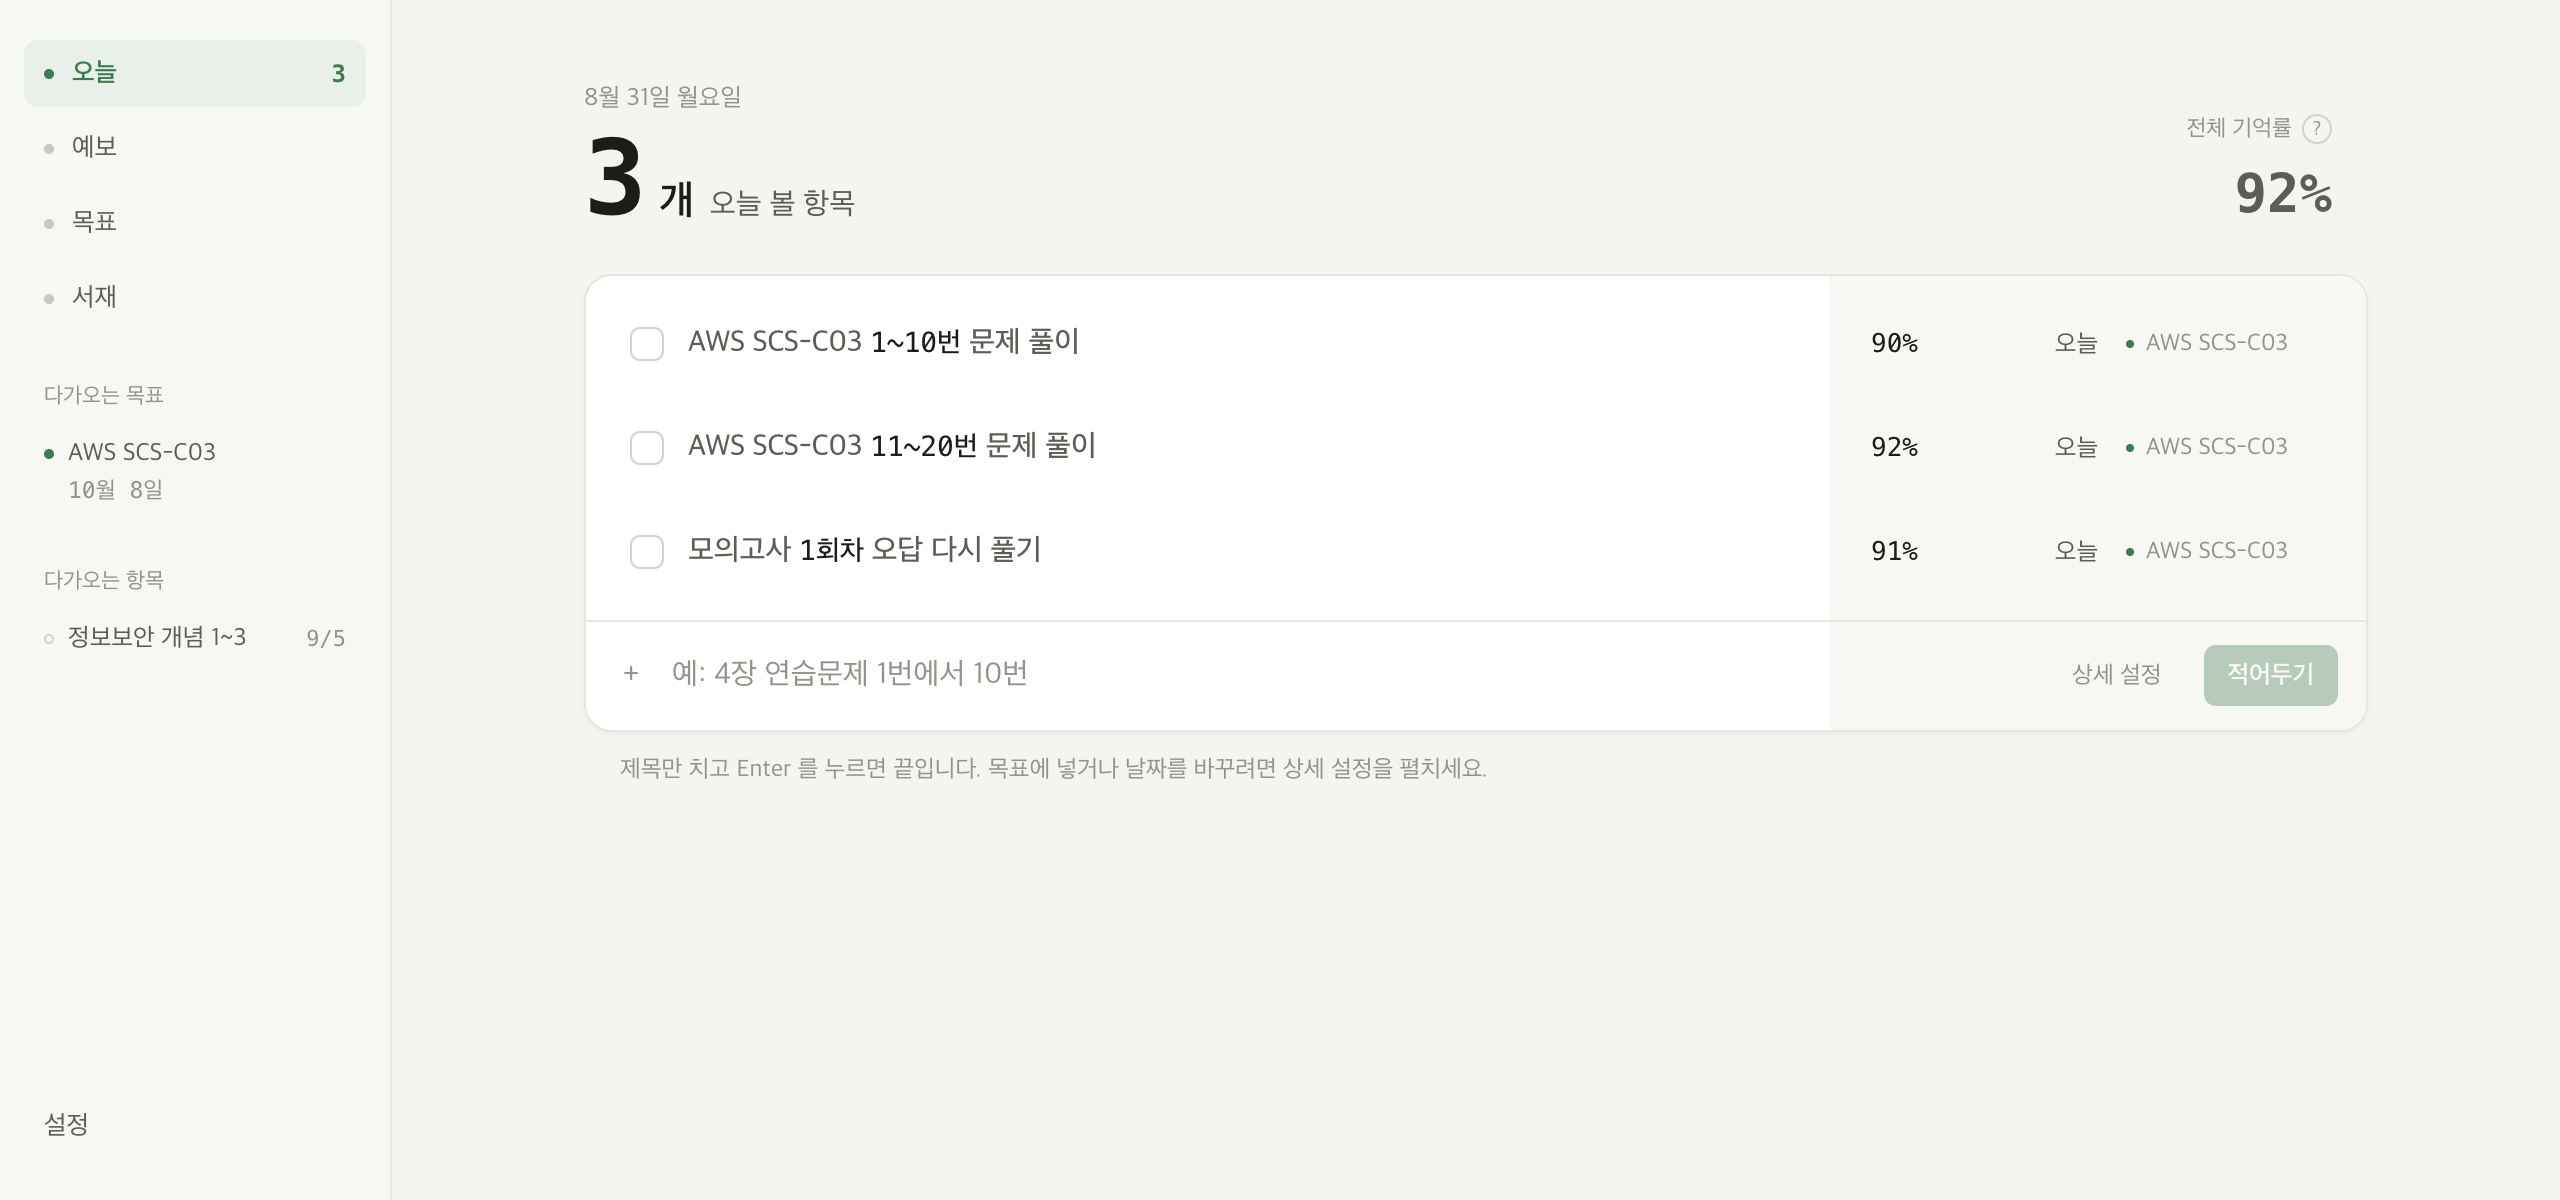
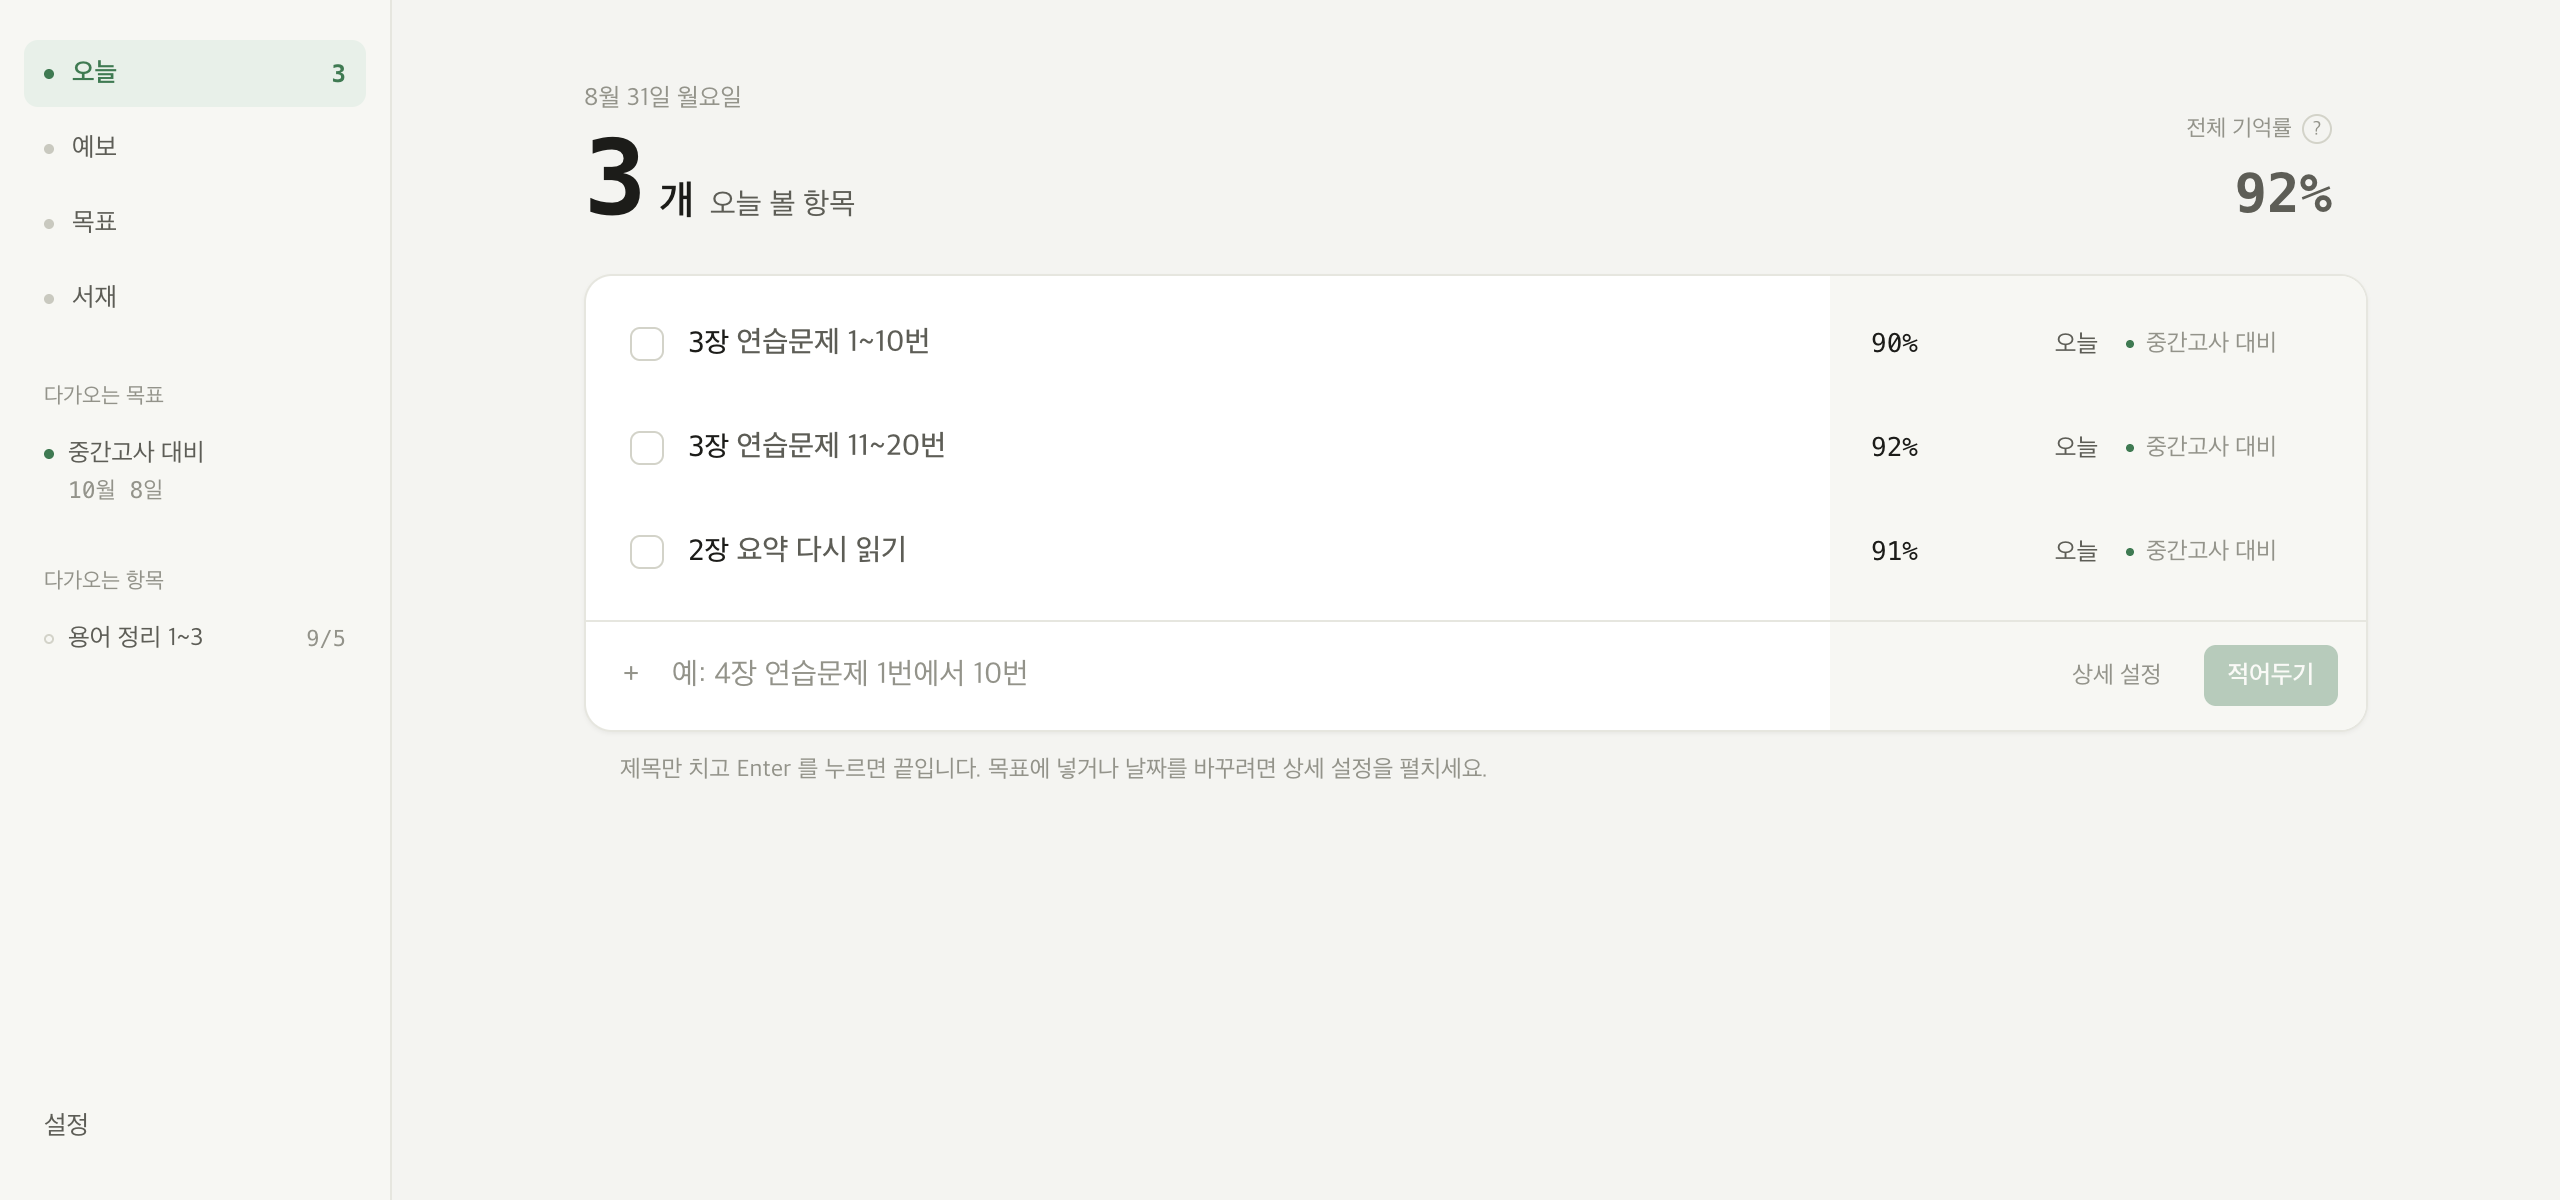
docs: 사진과 시험 씨앗에서 특정 자격증 이름을 뺀다
공개 저장소라 실제로 무엇을 공부하는지가 드러날 자리를 남기지 않는다.
시험 씨앗의 목표 이름은 '시험 준비' 로, 항목 제목은 앞의 자격증 이름을 떼고
'1~10번 문제 풀이' 만 남겼다.

사진은 곡선을 맨 앞에 두고 오늘 화면을 그 뒤로 옮겼다. 무엇을 하는 앱인지
설명하는 것은 곡선 쪽이다. 예보 화면을 하나 더해서, 목표한 날마다 세로선이
그어지고 그 뒤로는 안 그리는 것을 볼 수 있게 했다.

diff --git a/tests/scenarios/today-add.test.tsx b/tests/scenarios/today-add.test.tsx
@@ -31,11 +31,11 @@ describe('오늘 화면: 항목 적기', () => {
     await setupApp(TODAY)
     const { user } = render(<TodayScreen onOpenItem={() => {}} />)
     const input = screen.getByLabelText('새 항목 제목')
-    await user.type(input, 'AWS SCS-C03 1~10번 문제 풀이{Enter}')
+    await user.type(input, '1~10번 문제 풀이{Enter}')
 
     const items = usePlanner.getState().items
     expect(items).toHaveLength(1)
-    expect(items[0].title).toBe('AWS SCS-C03 1~10번 문제 풀이')
+    expect(items[0].title).toBe('1~10번 문제 풀이')
     expect(items[0].first_studied_at).toBe(TODAY)
     expect(items[0].due).toBe('2026-10-03')
     expect((input as HTMLInputElement).value).toBe('')
@@ -60,7 +60,7 @@ describe('오늘 화면: 항목 적기', () => {
   })
 
   it('S-004 상세 설정을 펼치고 접는다', async () => {
-    await setupApp(TODAY, { goals: [aGoal({ id: 'g1', name: 'AWS SCS-C03' })] })
+    await setupApp(TODAY, { goals: [aGoal({ id: 'g1', name: '시험 준비' })] })
     const { user } = render(<TodayScreen onOpenItem={() => {}} />)
     expect(screen.queryByText('공부한 날')).toBeNull()
 
@@ -140,11 +140,11 @@ describe('오늘 화면: 항목 적기', () => {
   })
 
   it('S-009 소속 목표를 골라 적는다', async () => {
-    await setupApp(TODAY, { goals: [aGoal({ id: 'g1', name: 'AWS SCS-C03' })] })
+    await setupApp(TODAY, { goals: [aGoal({ id: 'g1', name: '시험 준비' })] })
     const { user } = render(<TodayScreen onOpenItem={() => {}} />)
     await user.type(screen.getByLabelText('새 항목 제목'), '목표에 넣기')
     await openDetail(user)
-    await pickSelect(user, '소속 목표', 'AWS SCS-C03')
+    await pickSelect(user, '소속 목표', '시험 준비')
     await user.click(screen.getByRole('button', { name: /적어두기/ }))
 
     expect(usePlanner.getState().items[0].goal_id).toBe('g1')
@@ -157,7 +157,7 @@ describe('오늘 화면: 항목 적기', () => {
   })
 
   it('S-010 소속 목표를 없음으로 둔다', async () => {
-    await setupApp(TODAY, { goals: [aGoal({ id: 'g1', name: 'AWS SCS-C03' })] })
+    await setupApp(TODAY, { goals: [aGoal({ id: 'g1', name: '시험 준비' })] })
     const { user } = render(<TodayScreen onOpenItem={() => {}} />)
     await user.type(screen.getByLabelText('새 항목 제목'), '목표 없이')
     await openDetail(user)

diff --git a/tests/scenarios/library.test.tsx b/tests/scenarios/library.test.tsx
@@ -11,7 +11,7 @@ afterEach(teardownApp)
 
 function mixed() {
   return {
-    goals: [aGoal({ id: 'g1', name: 'AWS SCS-C03' })],
+    goals: [aGoal({ id: 'g1', name: '시험 준비' })],
     items: [
       anItem({
         id: 'a',
@@ -47,7 +47,7 @@ describe('서재', () => {
     render(<LibraryScreen onOpenItem={noop} onOpenGoal={noop} />)
     // 바깥 묶음 머리글이 소속 목표다.
     expect(
-      await screen.findByRole('button', { name: 'AWS SCS-C03 접기' })
+      await screen.findByRole('button', { name: '시험 준비 접기' })
     ).toBeInTheDocument()
     expect(
       screen.getByRole('button', { name: '목표 없음 접기' })
@@ -59,7 +59,7 @@ describe('서재', () => {
     render(<LibraryScreen onOpenItem={noop} onOpenGoal={noop} />)
     // 이미 그 목표 안이라 줄마다 또 적을 이유가 없다.
     const row = await screen.findByRole('button', { name: '가나다 문제' })
-    expect(within(row).queryByText('AWS SCS-C03')).toBeNull()
+    expect(within(row).queryByText('시험 준비')).toBeNull()
     expect(row.textContent).toMatch(/%/)
   })
 
@@ -122,11 +122,11 @@ describe('서재', () => {
       await screen.findByRole('button', { name: '가나다 문제' })
     ).toBeInTheDocument()
     await user.click(
-      screen.getByRole('button', { name: 'AWS SCS-C03 접기' })
+      screen.getByRole('button', { name: '시험 준비 접기' })
     )
     expect(screen.queryByRole('button', { name: '가나다 문제' })).toBeNull()
     await user.click(
-      screen.getByRole('button', { name: 'AWS SCS-C03 펼치기' })
+      screen.getByRole('button', { name: '시험 준비 펼치기' })
     )
     expect(
       screen.getByRole('button', { name: '가나다 문제' })

diff --git a/tests/integration/transfer.test.ts b/tests/integration/transfer.test.ts
@@ -61,8 +61,8 @@ describe('내보내기와 가져오기', () => {
   it('내보낸 것을 그대로 다시 읽어들인다', () => {
     const backup = toBackup(
       {
-        goals: [goal('g1', 'AWS SCS-C03')],
-        items: [item('i1', 'AWS SCS-C03 1~10번 문제 풀이', { goal_id: 'g1' })],
+        goals: [goal('g1', '시험 준비')],
+        items: [item('i1', '1~10번 문제 풀이', { goal_id: 'g1' })],
         reviews: [],
         settings: { theme: 'dark' },
       },
@@ -111,15 +111,15 @@ describe('내보내기와 가져오기', () => {
 describe('CSV 내보내기', () => {
   it('사람이 읽는 열 이름으로 내보낸다', () => {
     const csv = toCsv(
-      [item('i1', 'AWS SCS-C03 1~10번 문제 풀이', { goal_id: 'g1' })],
-      [goal('g1', 'AWS SCS-C03')]
+      [item('i1', '1~10번 문제 풀이', { goal_id: 'g1' })],
+      [goal('g1', '시험 준비')]
     )
     const lines = csv.split('\r\n')
     expect(lines[0]).toBe(
       '제목,메모,소속 목표,공부한 날,다음에 볼 날,지금까지 본 횟수,잊은 횟수,기억 지속력(일)'
     )
     expect(lines[1]).toBe(
-      'AWS SCS-C03 1~10번 문제 풀이,,AWS SCS-C03,2026-08-01,2026-08-13,2,1,12.35'
+      '1~10번 문제 풀이,,시험 준비,2026-08-01,2026-08-13,2,1,12.35'
     )
   })
 

diff --git a/tests/integration/spread-app.test.ts b/tests/integration/spread-app.test.ts
@@ -26,14 +26,14 @@ async function seed(count: number): Promise<string> {
   // 여유 강도는 FSRS 간격을 길게 잡아서 마감선 제약이 이기는 상태를 만든다.
   // 표준으로 두면 항목이 안 봐도 목표 기억률을 지켜서 마감선이 아예 안 당긴다.
   const goal = await usePlanner.getState().createGoal({
-    name: 'AWS SCS-C03',
+    name: '시험 준비',
     horizon: { kind: 'date', at: EXAM },
     intensity: 'easy',
   })
 
   for (let i = 0; i < count; i += 1) {
     await usePlanner.getState().addItem({
-      title: `AWS SCS-C03 ${i * 10 + 1}~${i * 10 + 10}번 문제 풀이`,
+      title: `${i * 10 + 1}~${i * 10 + 10}번 문제 풀이`,
       goalId: goal.id,
       firstStudiedAt: addDays(TODAY, -(2 + (i % 26))),
     })

diff --git a/tests/scenarios/crud.test.tsx b/tests/scenarios/crud.test.tsx
@@ -15,7 +15,7 @@ afterEach(teardownApp)
 async function withItem(over = {}) {
   await setupApp(TODAY, {
     goals: [
-      aGoal({ id: 'g1', name: 'AWS SCS-C03' }),
+      aGoal({ id: 'g1', name: '시험 준비' }),
       aGoal({ id: 'g2', name: '정보보안 개념 정리' }),
     ],
     items: [
@@ -181,7 +181,7 @@ describe('항목 지우기', () => {
 describe('목표 지우기', () => {
   async function withGoal() {
     await setupApp(TODAY, {
-      goals: [aGoal({ id: 'g1', name: 'AWS SCS-C03' })],
+      goals: [aGoal({ id: 'g1', name: '시험 준비' })],
       items: [
         anItem({ id: 'i1', goal_id: 'g1', title: '가', due: '2026-10-05' }),
         anItem({ id: 'i2', goal_id: 'g1', title: '나', due: '2026-10-06' }),

diff --git a/tests/integration/core-loop.test.ts b/tests/integration/core-loop.test.ts
@@ -33,7 +33,7 @@ describe('핵심 루프', () => {
 
   it('목표를 만들고 항목을 넣고 평가까지 완주한다', async () => {
     const goal = await usePlanner.getState().createGoal({
-      name: 'AWS SCS-C03',
+      name: '시험 준비',
       horizon: { kind: 'date', at: addDays(TODAY, 45) },
       intensity: 'standard',
     })
@@ -41,7 +41,7 @@ describe('핵심 루프', () => {
 
     // 사흘 전에 공부해 두고 오늘 복습한 상황이다.
     const item = await usePlanner.getState().addItem({
-      title: 'AWS SCS-C03 1~10번 문제 풀이',
+      title: '1~10번 문제 풀이',
       goalId: goal.id,
       firstStudiedAt: addDays(TODAY, -3),
     })

diff --git a/tests/scenarios/goal.test.tsx b/tests/scenarios/goal.test.tsx
@@ -41,7 +41,7 @@ describe('목표 만들기', () => {
   it('S-048 정확한 날짜', async () => {
     await setupApp(TODAY)
     const { user } = render(<GoalListScreen onOpenGoal={noop} />)
-    await newGoal(user, 'AWS SCS-C03')
+    await newGoal(user, '시험 준비')
     await user.click(screen.getByRole('radio', { name: '정확한 날짜' }))
     await setDateInput(
       user,
@@ -158,7 +158,7 @@ describe('목표 상세', () => {
       goals: [
         aGoal({
           id: 'g1',
-          name: 'AWS SCS-C03',
+          name: '시험 준비',
           horizon_kind: 'date',
           ready_at: '2026-11-14',
           hold_until: '2026-11-14',

diff --git a/tests/scenarios/controls.test.tsx b/tests/scenarios/controls.test.tsx
@@ -235,7 +235,7 @@ describe('나머지 조작 요소', () => {
       goals: [
         aGoal({
           id: 'g1',
-          name: 'AWS SCS-C03',
+          name: '시험 준비',
           horizon_kind: 'date',
           ready_at: '2026-11-14',
           hold_until: '2026-11-14',
@@ -254,7 +254,7 @@ describe('나머지 조작 요소', () => {
         <p>본문</p>
       </AppShell>
     )
-    await user.click(screen.getByRole('button', { name: /AWS SCS-C03/ }))
+    await user.click(screen.getByRole('button', { name: /시험 준비/ }))
     expect(opened).toBe('g1')
   })
 

diff --git a/tests/scenarios/harness.tsx b/tests/scenarios/harness.tsx
@@ -88,7 +88,7 @@ export function render(node: ReactElement) {
 export function aGoal(over: Partial<GoalRow> = {}): GoalRow {
   return {
     id: 'g1',
-    name: 'AWS SCS-C03',
+    name: '시험 준비',
     horizon_kind: 'open',
     ready_at: null,
     hold_until: null,

diff --git a/README.md b/README.md
@@ -2,16 +2,19 @@
 
 **공부한 일을 한 줄로 적어두면, 언제 다시 봐야 할지 계산해주는 macOS 학습 플래너.**
 
-![오늘 화면. 오늘 볼 항목 3개가 목록으로 서 있고, 줄마다 지금 기억률과 소속 목표가 붙어 있다. 맨 아래 한 줄로 새 항목을 적는 칸이 있다.](docs/today.png)
+![적어둔 항목 하나의 기억 곡선. 복습할 때마다 100%로 올라갔다가 잊는 곡선을 따라 내려오고, 가운데 '다시'를 고른 자리에서 기억 지속력이 무너져 간격이 짧아진다. 앞으로 잡힌 일정은 점선으로 목표한 날까지 이어진다.](docs/screenshot.png)
 
 복습은 앱 밖에서 합니다. 원래 진행하던 공부를 마친 뒤에 돌아와서
 자가 평가 네 단계(다시, 어려움, 무난함, 쉬움) 중 하나만 고르면 다음 복습일이 다시 잡힙니다.
+
+![오늘 화면. 오늘 볼 항목 3개가 목록으로 서 있고, 줄마다 지금 기억률과 소속 목표가 붙어 있다. 맨 아래 한 줄로 새 항목을 적는 칸이 있다.](docs/today.png)
+
 목표 시점을 정해두면 그날 목표 기억률을 넘도록 일정을 역산하고,
 하루에 몰리지 않게 날짜를 펴서 잡습니다.
+해야 하는 복습은 늦어도 목표한 날 전날까지 끝나도록 잡고,
+목표한 날 당일에 남는 것은 해도 되고 안 해도 되는 것뿐입니다.
 
-항목 하나를 열면 왜 오늘 올라왔는지 곡선으로 보여줍니다.
-
-![적어둔 항목 하나의 기억 곡선. 복습할 때마다 100%로 올라갔다가 잊는 곡선을 따라 내려오고, 가운데 '다시'를 고른 자리에서 기억 지속력이 무너져 간격이 짧아진다. 앞으로 잡힌 일정은 점선으로 목표한 날까지 이어진다.](docs/screenshot.png)
+![예보 화면. 앞으로 38일치 복습이 막대 그래프로 서 있고 목표한 날마다 세로선이 그어져 있다. 대략으로 잡은 목표는 옅은 띠로 구간을 보여준다. 아래에는 같은 내용을 달력으로 본 그림이 있다.](docs/forecast.png)
 
 ## 시작하기
 
